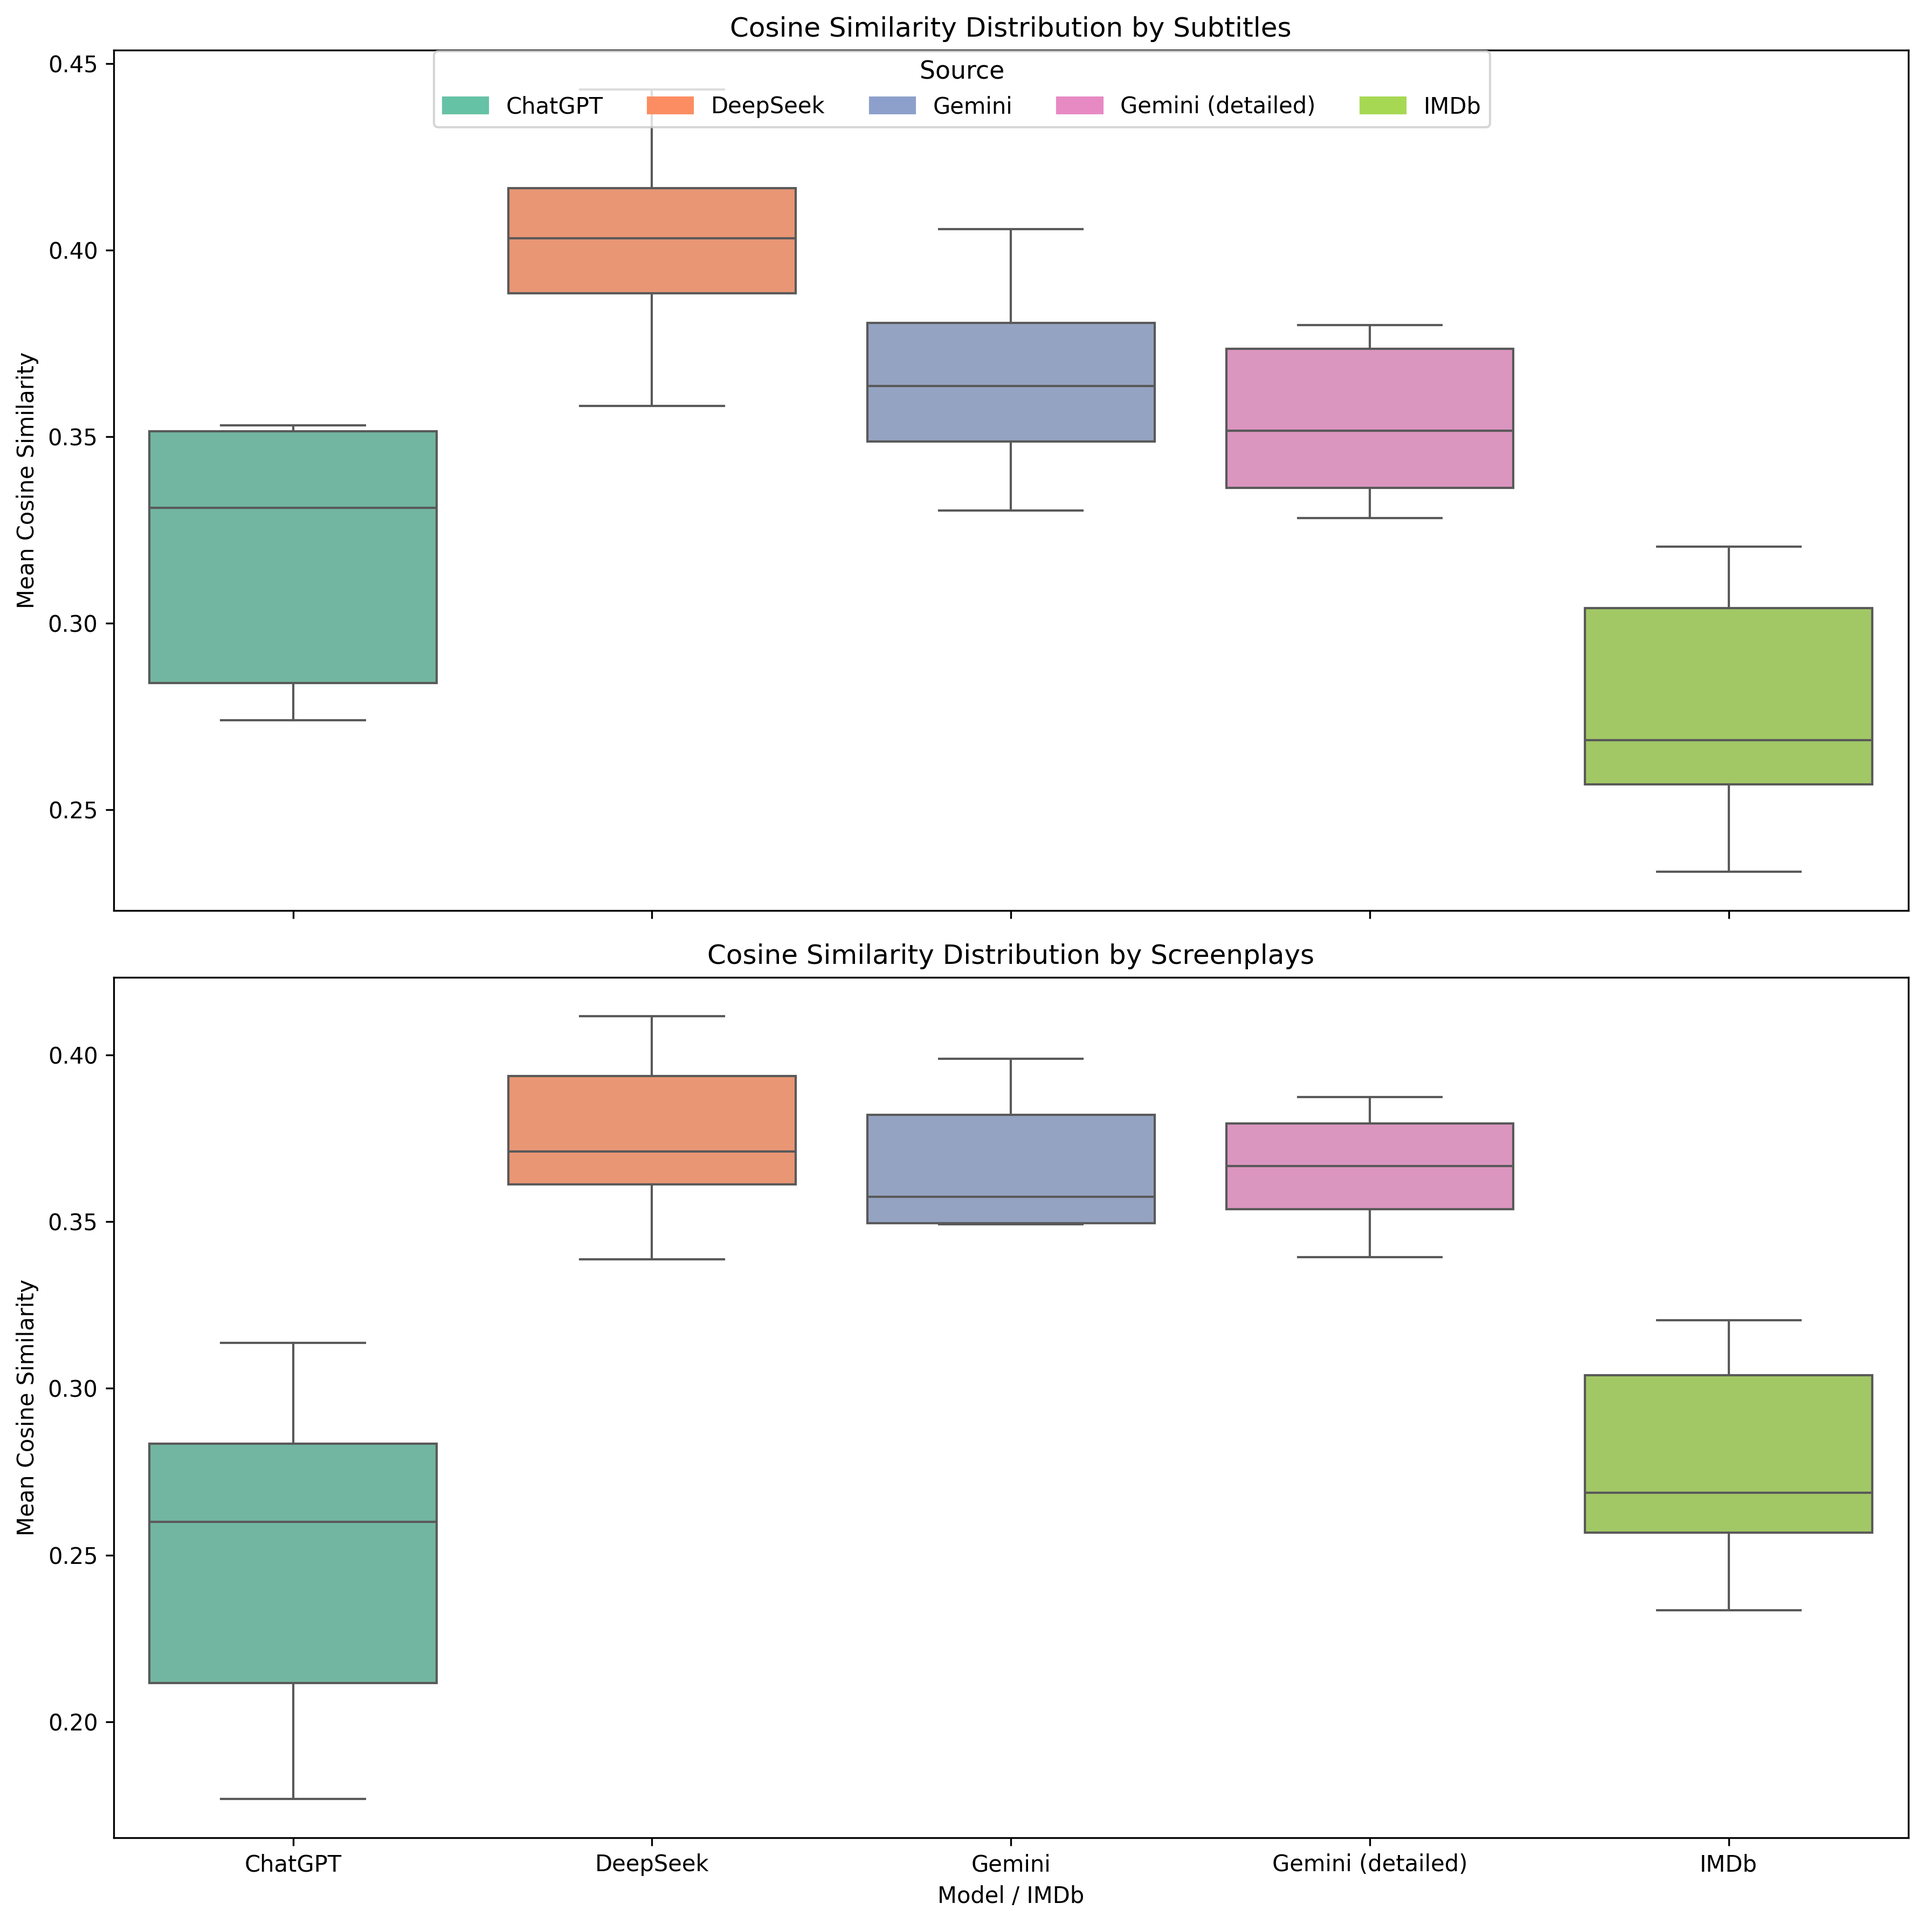
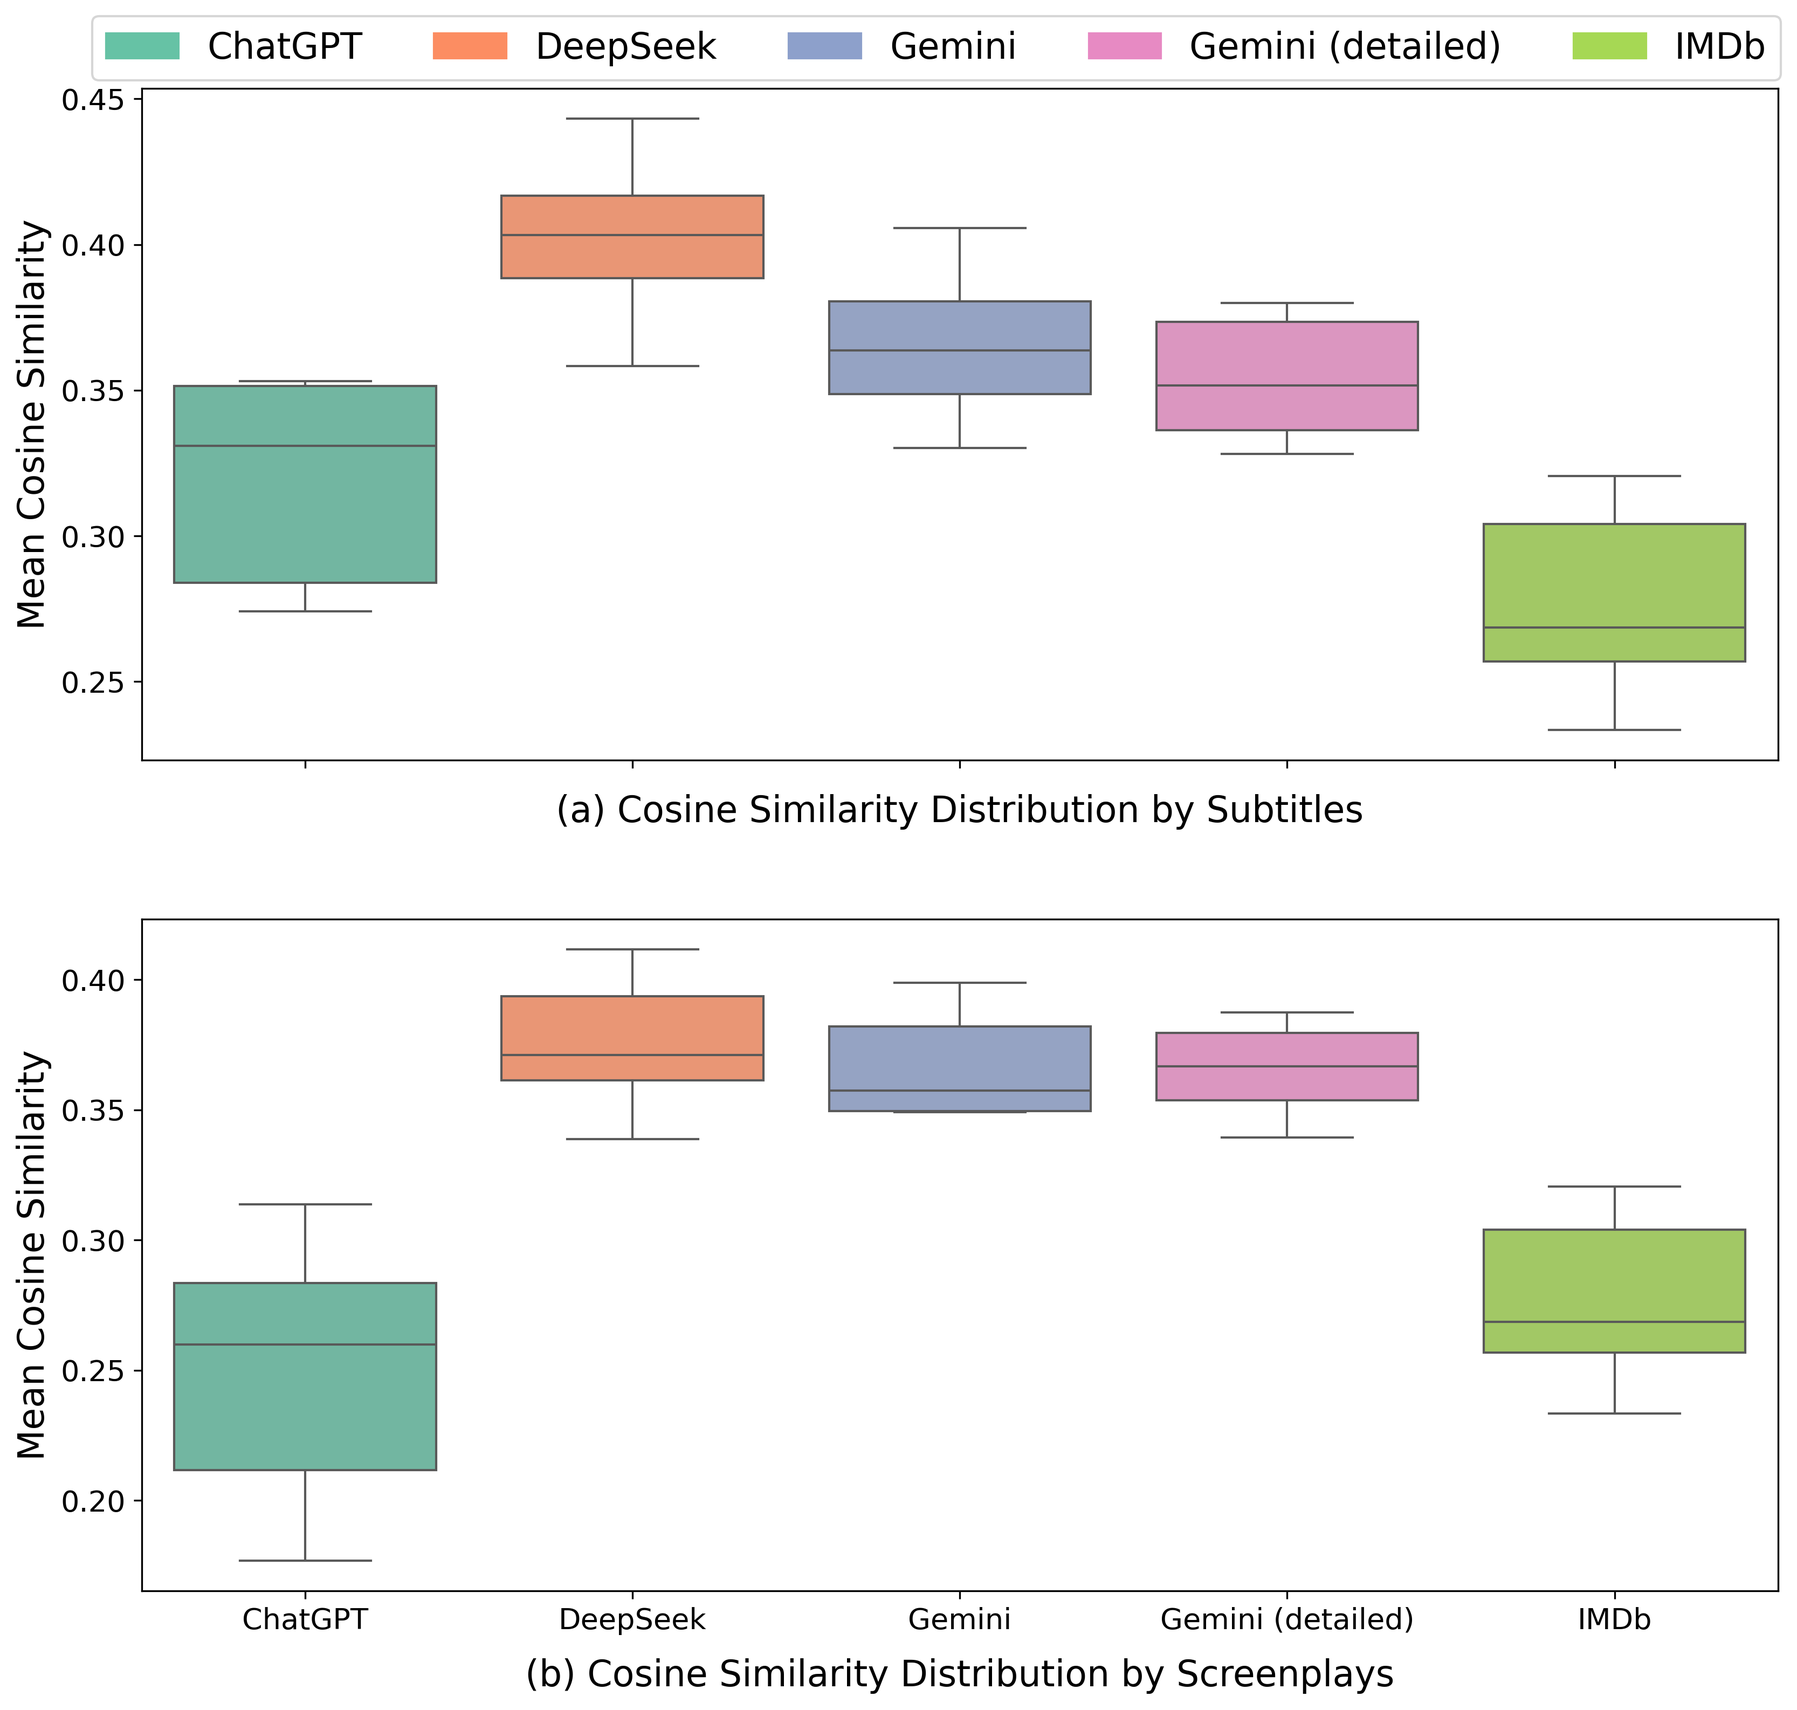
update

diff --git a/visualization/cosine_similarity_boxplot.py b/visualization/cosine_similarity_boxplot.py
@@ -54,23 +54,35 @@ palette = sns.color_palette("Set2")
 
 # Subplot 1: Overall summary (static cosine similarity comparison)
 sns.boxplot(data=summary_df, x="Source", y="MeanSimilarity", ax=axes[0], hue="Source", palette=palette_dict, legend=False)
-axes[0].set_title("Cosine Similarity Distribution by Subtitles")
-axes[0].set_ylabel("Mean Cosine Similarity")
+# axes[0].set_title("Cosine Similarity Distribution by Subtitles")
+axes[0].set_ylabel("Mean Cosine Similarity", fontsize = 16)
 axes[0].set_xlabel("")
 
 # Subplot 2: Movie-level similarity (screenplays)
 sns.boxplot(data=screenplay_df, x="Source", y="MeanSimilarity", ax=axes[1], hue="Source", palette=palette_dict, legend=False)
-axes[1].set_title("Cosine Similarity Distribution by Screenplays")
-axes[1].set_ylabel("Mean Cosine Similarity")
-axes[1].set_xlabel("Model / IMDb")
+# axes[1].set_title("Cosine Similarity Distribution by Screenplays")
+axes[1].set_ylabel("Mean Cosine Similarity", fontsize = 16)
+axes[1].set_xlabel("")
 
+# adjust subplot title location
+axes[0].text(0.5, -0.05, "(a) Cosine Similarity Distribution by Subtitles",
+             fontsize=16, ha='center', va='top', transform=axes[0].transAxes)
+
+axes[1].text(0.5, -0.1, "(b) Cosine Similarity Distribution by Screenplays",
+             fontsize=16, ha='center', va='top', transform=axes[1].transAxes)
+
+# increase tick labels font size
+for ax in axes:
+    ax.tick_params(axis='both', labelsize=13)  # increase both x and y ticks
 
 # Shared legend
 handles = [mpatches.Patch(color=palette_dict[source], label=source) for source in sources]
-fig.legend(handles=handles, title="Source", loc='upper center', bbox_to_anchor=(0.5, 0.975), ncol=5,
-           title_fontsize=11, fontsize=10)
+fig.legend(handles=handles, loc='upper center', bbox_to_anchor=(0.52, 0.92), ncol=5,
+           title_fontsize=16, fontsize=16)
 
 # Layout
-plt.tight_layout()
+# plt.tight_layout()
+# adjust distance between subplots
+plt.tight_layout(pad=4.0, rect=(0, 0, 1, 0.92))
 plt.savefig("combined_cosine_similarity_boxplots.png", dpi=300, bbox_inches="tight")
 plt.show()
